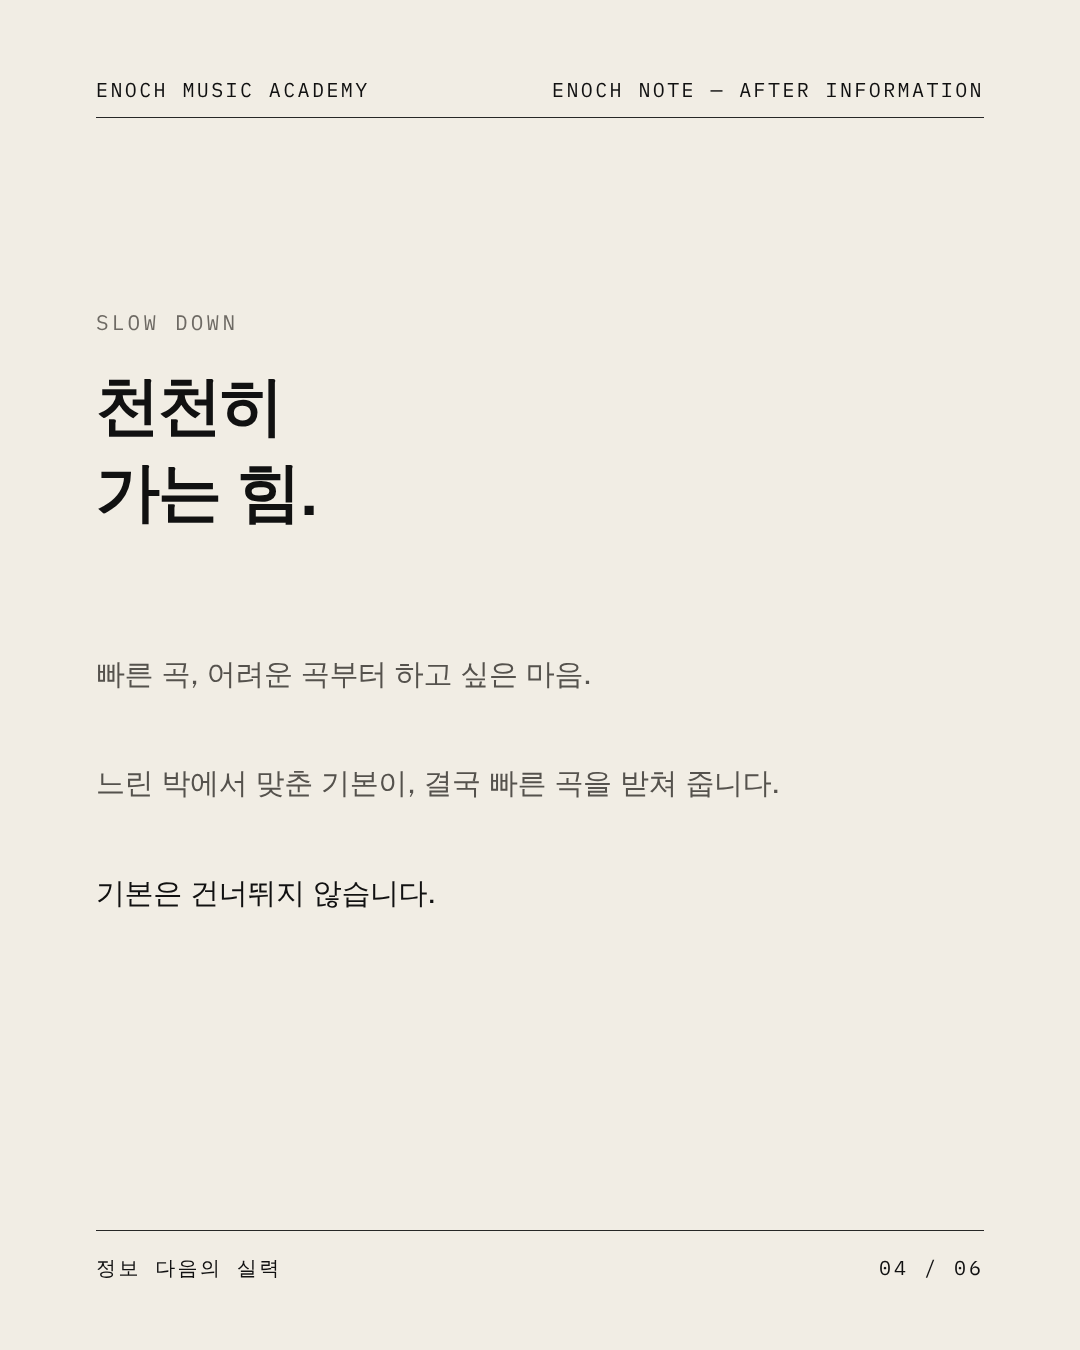
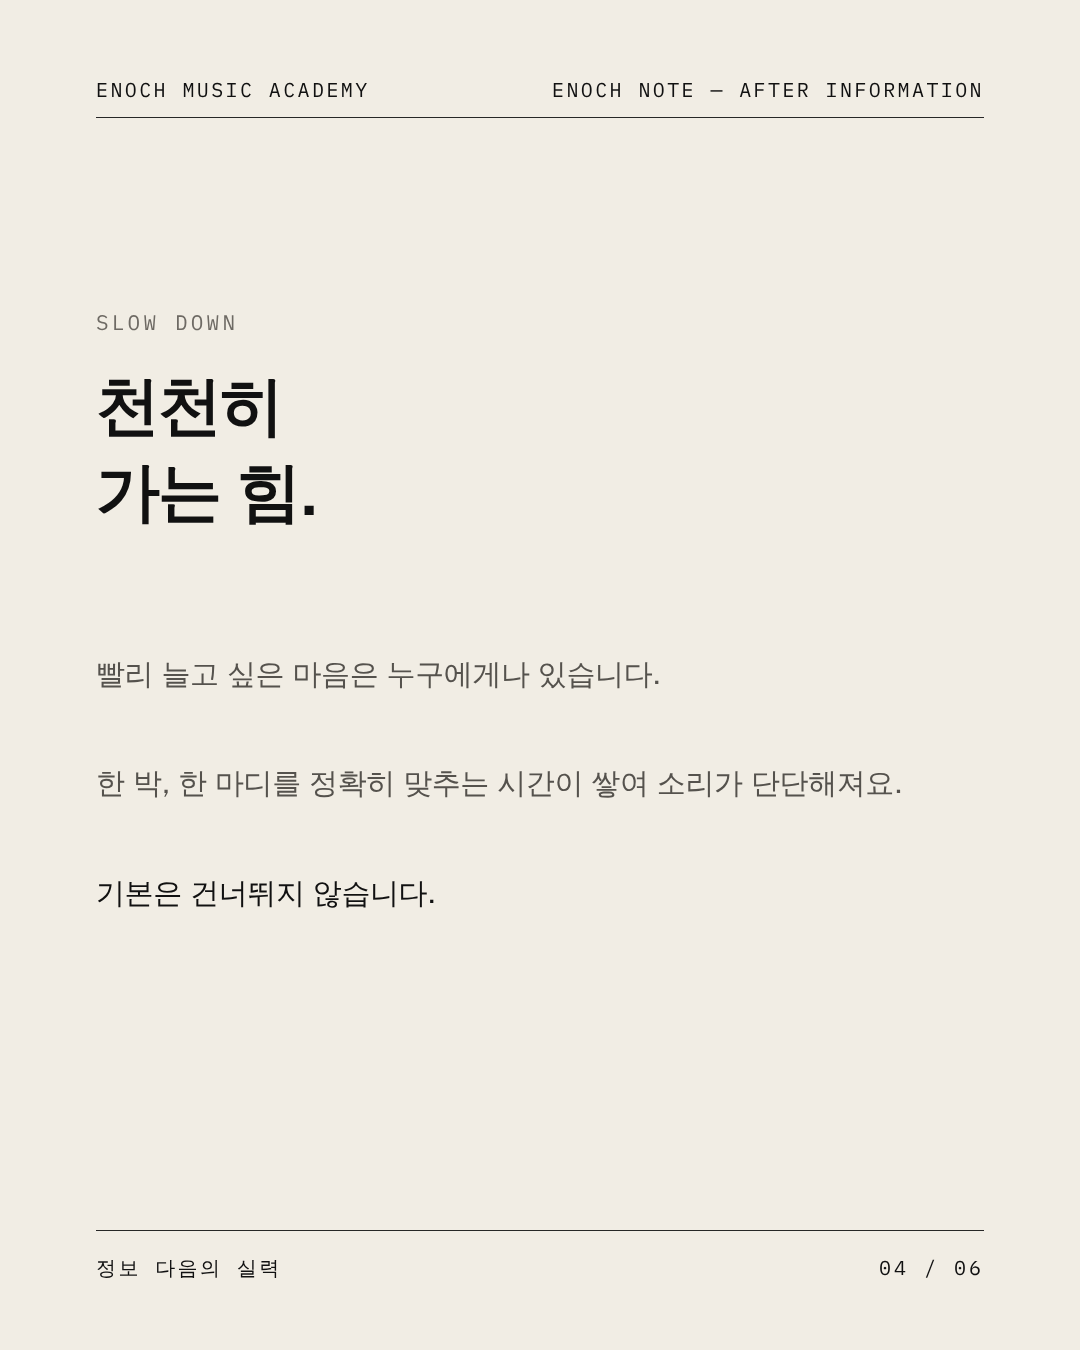
정보의 시대 4장: 빠른 곡·어려운 곡 표현 빼고 다시 씀
Claude-Session: https://claude.ai/code/session_01HGbZvgMeYrbU7mY8bwfjyb

Changed region(s): [[0.0917, 0.56, 0.825, 0.5911], [0.0917, 0.4667, 0.55, 0.5289]]

diff --git a/output/노트_정보의시대/preview.html b/output/노트_정보의시대/preview.html
@@ -277,7 +277,7 @@ body { font-family: var(--ko); word-break: keep-all; -webkit-font-smoothing: ant
 <section class="card layout-point theme-ivory" id="card-4">
     <div class="masthead"><span>ENOCH MUSIC ACADEMY</span><span>ENOCH NOTE — AFTER INFORMATION</span></div>
     <div class="kicker">Slow Down</div><h2 class="title">천천히
-가는 힘.</h2><div style="margin-top:56px"><p class="body">빠른 곡, 어려운 곡부터 하고 싶은 마음.</p><p class="body">느린 박에서 맞춘 기본이, 결국 빠른 곡을 받쳐 줍니다.</p><p class="body"><span class="em">기본은 건너뛰지 않습니다.</span></p></div>
+가는 힘.</h2><div style="margin-top:56px"><p class="body">빨리 늘고 싶은 마음은 누구에게나 있습니다.</p><p class="body">한 박, 한 마디를 정확히 맞추는 시간이 쌓여 소리가 단단해져요.</p><p class="body"><span class="em">기본은 건너뛰지 않습니다.</span></p></div>
     
     
     <div class="colophon"><span>정보 다음의 실력</span><span class="page">04 / 06</span></div>
